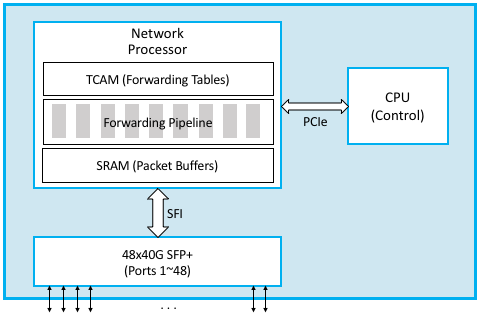
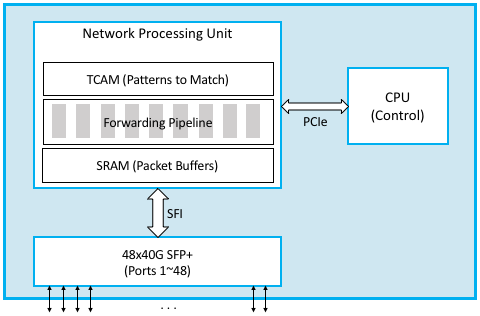
corrected switch impl

Changed region(s): [[0.0, 0.0287, 1.0, 1.0]]

diff --git a/impl.md b/impl.md
@@ -149,67 +149,72 @@ run on your home-built switch. Alternatively, you can simply buy a
 pre-built switch from a commodity switch manufacturer and then load
 your own software onto it. The following describes these open *white-box
 switches*, so called to contrast them with closed "black-box" devices
-of the recent past.
+that have historically dominated the industry.
 
 <figure class="line">
 	<a id="whitebox"></a>
 	<img src="figures/impl/Slide2.png" width="500px"/>
-	<figcaption>White-box switch using a Network Processor.</figcaption>
-	</figure>
+	<figcaption>White-box switch using a Network Processing
+	Unit.</figcaption>
+</figure>
 
 [Figure 2](#whitebox) is a simplified depiction of a white-box
 switch. The key difference from the earlier implementation on a
-general-purpose processor is the addition of a Network Processor
-(NP), a domain-specific processor with an architecture and
+general-purpose processor is the addition of a Network Processoring
+Unit (NPU), a domain-specific processor with an architecture and
 instruction set that has been optimized for processing packet headers
-(i.e., for implementing the data plane). NPs are similar in spirit to
+(i.e., for implementing the data plane). NPUs are similar in spirit to
 GPUs that have an architecture optimized for rendering computer
-graphics, but in this case, the NP is optimized for parsing packet
-headers and making a forwarding decsion. Network Processors are able
+graphics, but in this case, the NPU is optimized for parsing packet
+headers and making a forwarding decsion. NPUs are able
 to process packets (input, make a forwarding decision, and output)
 at rates measured in Terabits-per-second (Tbps), easily fast enough to
 keep up with 32x100-Gbps ports, or the 48x40-Gbps ports shown in the
 diagram.
 
-> You might wonder why we don't call these NPUs, just as we have CPUs
-> and GPUs. The problem is that "NPU" is already spoken for: Neural
-> Processing Unit, yet another domain specific processor that has been
-> tailored for running AI programs. In truth, NP is not a
-> widely-accepted term (there isn't one), but a generic alternative
-> that has been proposed is Protocol Independent Switch Architecture
-> (PISA).
+> Our use of the term NPU is a bit non-standard. Historically, NPU was
+> the name given more narrowly-defined network processing chips used,
+> for example, to implement intelligent firewalls or deep packet
+> inspection. They were not as general-purpose as the NPUs we're
+> discussing here; nor were they as high-performance. It seems likely
+> that the current approach will make purpose-built network
+> processors obsolete, but in any case, we prefer the NPU nominclator
+> because it is consistent with the trend to build programmable
+> domain-specific processors, including GPUs for graphics and TPUs
+> (Tensor Processing Units) for AI.
 
 The beauty of this new switch design is that a given white-box can now
 be programmed to be an L2 switch, and L3 router, or a combination of
 both, just by a matter of programming. The exact same control plane
 software stack used in a software switch still runs on the control CPU,
-but in addition, data plane "programs" are loaded onto the NP to reflect
+but in addition, data plane "programs" are loaded onto the NPU to reflect
 the forwarding decisions made by the control plane software. Exactly
-how one "programs" the NP depends on the chip vendor, of which there
+how one "programs" the NPU depends on the chip vendor, of which there
 are currently several. In some cases, the forwarding pipeline is fixed
 and the control processor merely loads the forwarding table into the
-NP (by fixed we mean the NP only knows how to process certain headers,
+NPU (by fixed we mean the NPU only knows how to process certain headers,
 like Ethernet and IP), but in other cases, the forwarding pipeline is
 itself programmable. P4 is a new programming language that can be used
-to program such NP-based forwarding pipeline. Among other things, P4
-tries to hide many of the differences in the underlying NP instruction sets.
+to program such NPU-based forwarding pipeline. Among other things, P4
+tries to hide many of the differences in the underlying NPU instruction sets.
 
-Internally, an NP takes advantage of three technologies. First, a fast
+Internally, an NPU takes advantage of three technologies. First, a fast
 SRAM-based memory buffers packets while they are being processed.
 SRAM (Static Random Access Memory), is roughly an order of magnitude
 faster than the DRAM (Dynamic Random Access Memory) that is used by
-main memory. Second, a TCAM-based memory stores the forwarding
-table. The "CAM" in TCAM stands for "Content Addressable Memory" which
-means that the key you want to look up in a table can effectively be
-used as the address into the memory that implements the table. The "T"
-stands for "Ternary" which is a fancy way to say the key you want to
-look up can have wildcards in it (i.e., match anything). Finally, the
+main memory. Second, a TCAM-based memory stores bit patterns to be
+matched in the packets being processed. The "CAM" in TCAM stands for
+"Content Addressable Memory" which means that the key you want to look
+up in a table can effectively be used as the address into the memory
+that implements the table. The "T" stands for "Ternary" which is a
+fancy way to say the key you want to look up can have wildcards in it
+(e.g, key `10*1` matches both `1001` and `1011`). Finally, the
 processing involved to forward each packet is implemented by a
 forwarding pipeline. This pipeline is implemented by an ASIC, but when
 well-designed, the pipeline's forwarding behavior can be modified by
 changing the program it runs. At a high level, this program is
 expressed as a collection of *(Match, Action)* pairs: if you match
-such-and-such field in the header, the execute this-or-that action.
+such-and-such field in the header, then execute this-or-that action.
 
 The relevance of packet processing being implemented by a multi-stage
 pipleline rather than a single-stage processor is that forwarding a
@@ -219,16 +224,16 @@ multi-stage pipeline adds a little end-to-end latency to each packet
 (measured in nanoseconds), but also means that multiple packets can be
 processed at the same time. For example, Stage 2 can be making a
 second lookup on packet A while Stage 1 is doing an initial lookup on
-packet B, and so on. This means the NP as a whole is able to keep up
-with line speeds. As of this writing, the state-of-the-art is 6.5 Tbps.
+packet B, and so on. This means the NPU as a whole is able to keep up
+with line speeds. As of this writing, the state-of-the-art is 12.8 Tbps.
 
 Finally, [Figure 2](#whitebox) includes other commodity components
 that make this all practical. In particular, it is now possible to buy
 pluggable *transceiver* modules that take care of all the media access
 details—be it Gigabit Ethernet, 10-Gigabit Ethernet, or SONET—as
-well as the optics. These transceivers all conform to a standardized
-form factor, known as SFP+, that can in turn be connected to other
-components over a standardized SFI bus. Again, the key takeaway is
-that the networking industry is just now entering into the same
-commoditized world that the computing industry has enjoyed for the
-last two decades.
+well as the optics. These transceivers all conform to standardized
+form factors, such as SFP+, that can in turn be connected to other
+components over a standardized bus (e.g., SFI). Again, the key
+takeaway is that the networking industry is just now entering into the
+same commoditized world that the computing industry has enjoyed for
+the last two decades.
